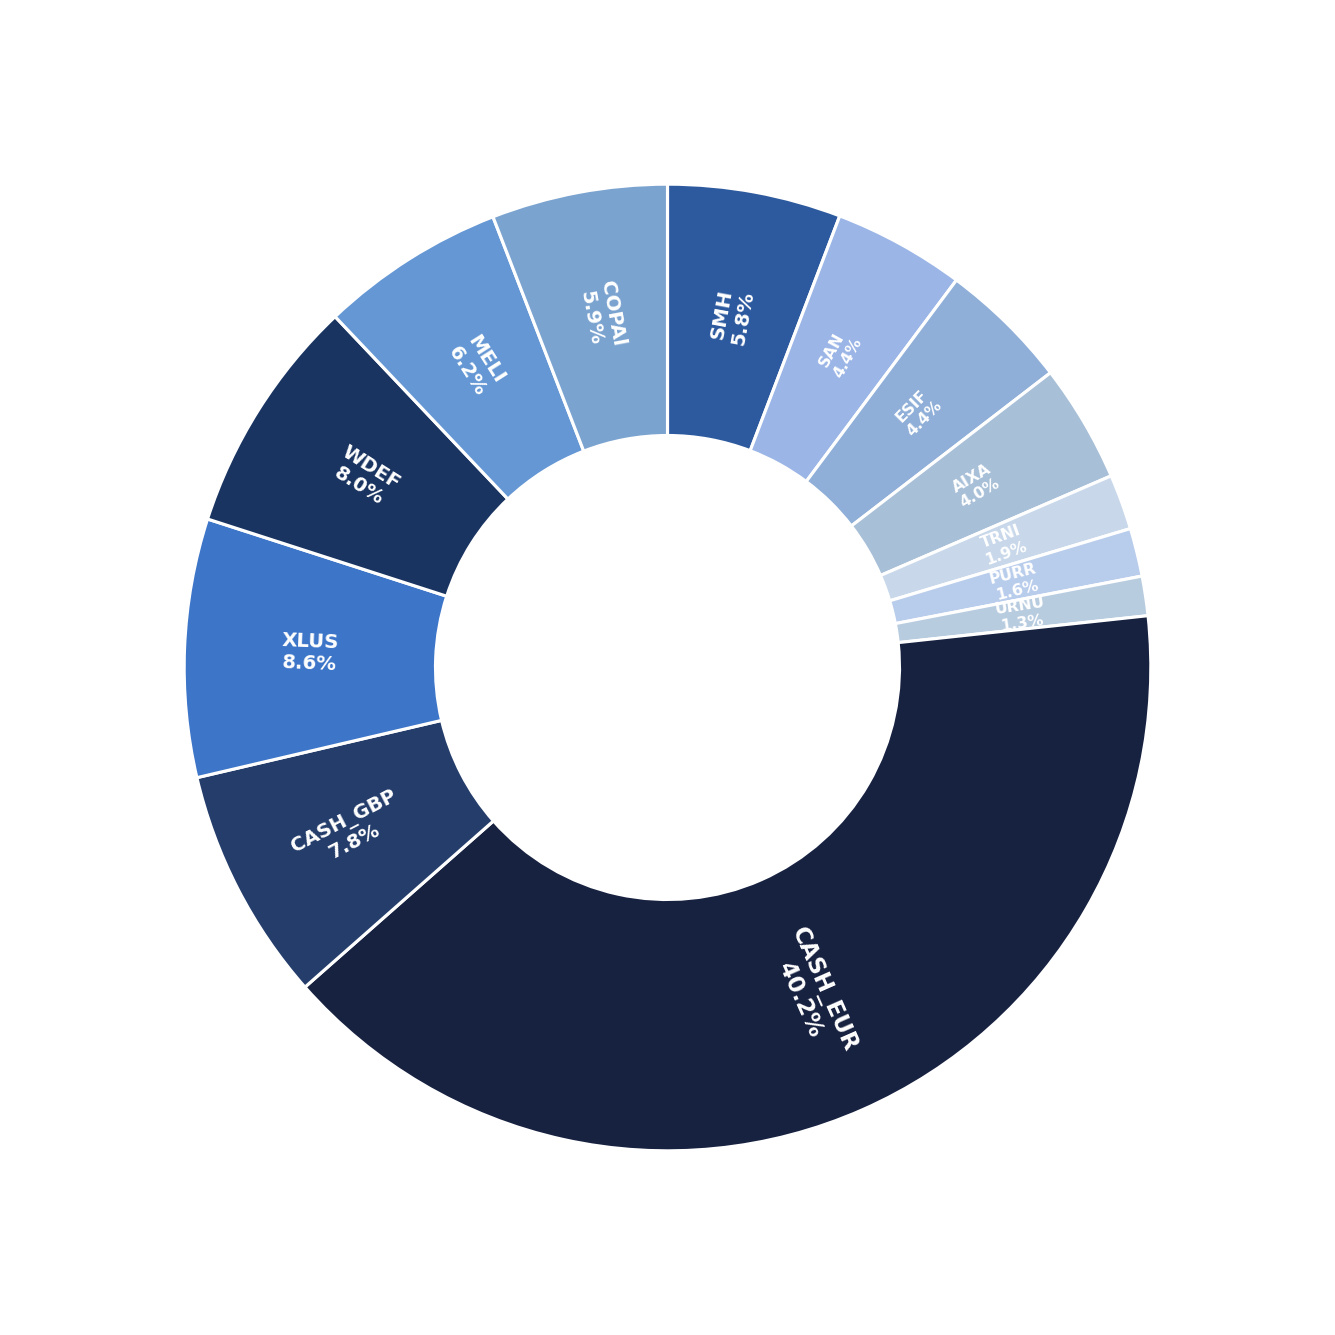
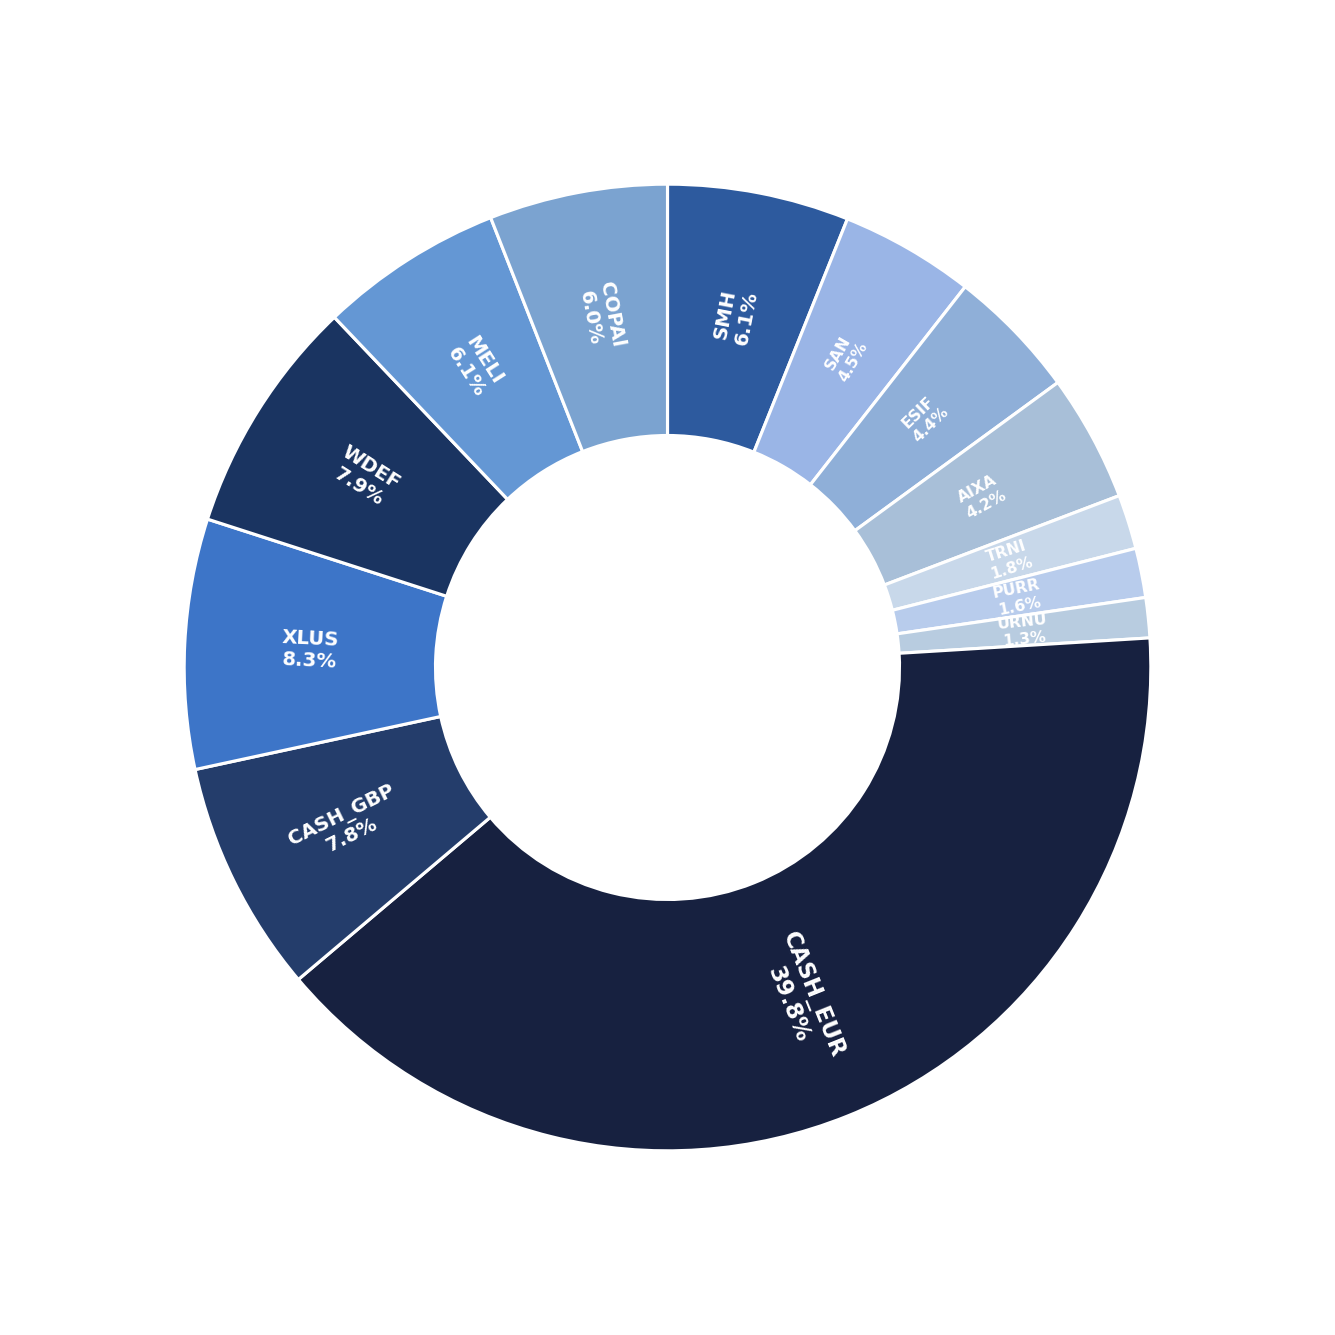
final update charts ready for review

diff --git a/assets/2026-07/charts/generate_charts.py b/assets/2026-07/charts/generate_charts.py
@@ -60,7 +60,7 @@ def donut(labels, sizes, colors, out_path, bold_threshold=5.5):
 
 # ── weights_by_position ────────────────────────────────────────────────────────
 pos_labels = ["SMH","SAN","ESIF","AIXA","TRNI","PURR","URNU","CASH_EUR","CASH_GBP","XLUS","WDEF","MELI","COPAl"]
-pos_sizes  = [ 5.80, 4.40,  4.36, 3.95,  1.85,  1.61,  1.32,     40.21,      7.84, 8.63, 7.96,  6.19,  5.88]
+pos_sizes  = [ 6.07, 4.49,  4.40, 4.25,  1.82,  1.65,  1.34,     39.80,      7.78, 8.35, 7.93,  6.14,  5.96]
 pos_colors = [
     MID_BLUE,    # SMH
     PALE_BLUE,   # SAN
@@ -82,7 +82,7 @@ donut(pos_labels, pos_sizes, pos_colors, OUT / "weights_by_position.png")
 
 # ── weights_by_theme ──────────────────────────────────────────────────────────
 thm_labels = ["EU Sovereignty","EU Financials","AI & Semis","Commodity","Energy Demand","Single Positions","Cash"]
-thm_sizes  = [           7.96,           8.77,       9.74,  5.88,           9.95,              9.65, 48.05]
+thm_sizes  = [           7.93,           8.89,      10.32,  5.96,           9.69,              9.61, 47.59]
 thm_colors = [
     DARK_BLUE,   # EU Sovereignty
     MID_BLUE,    # EU Financials
